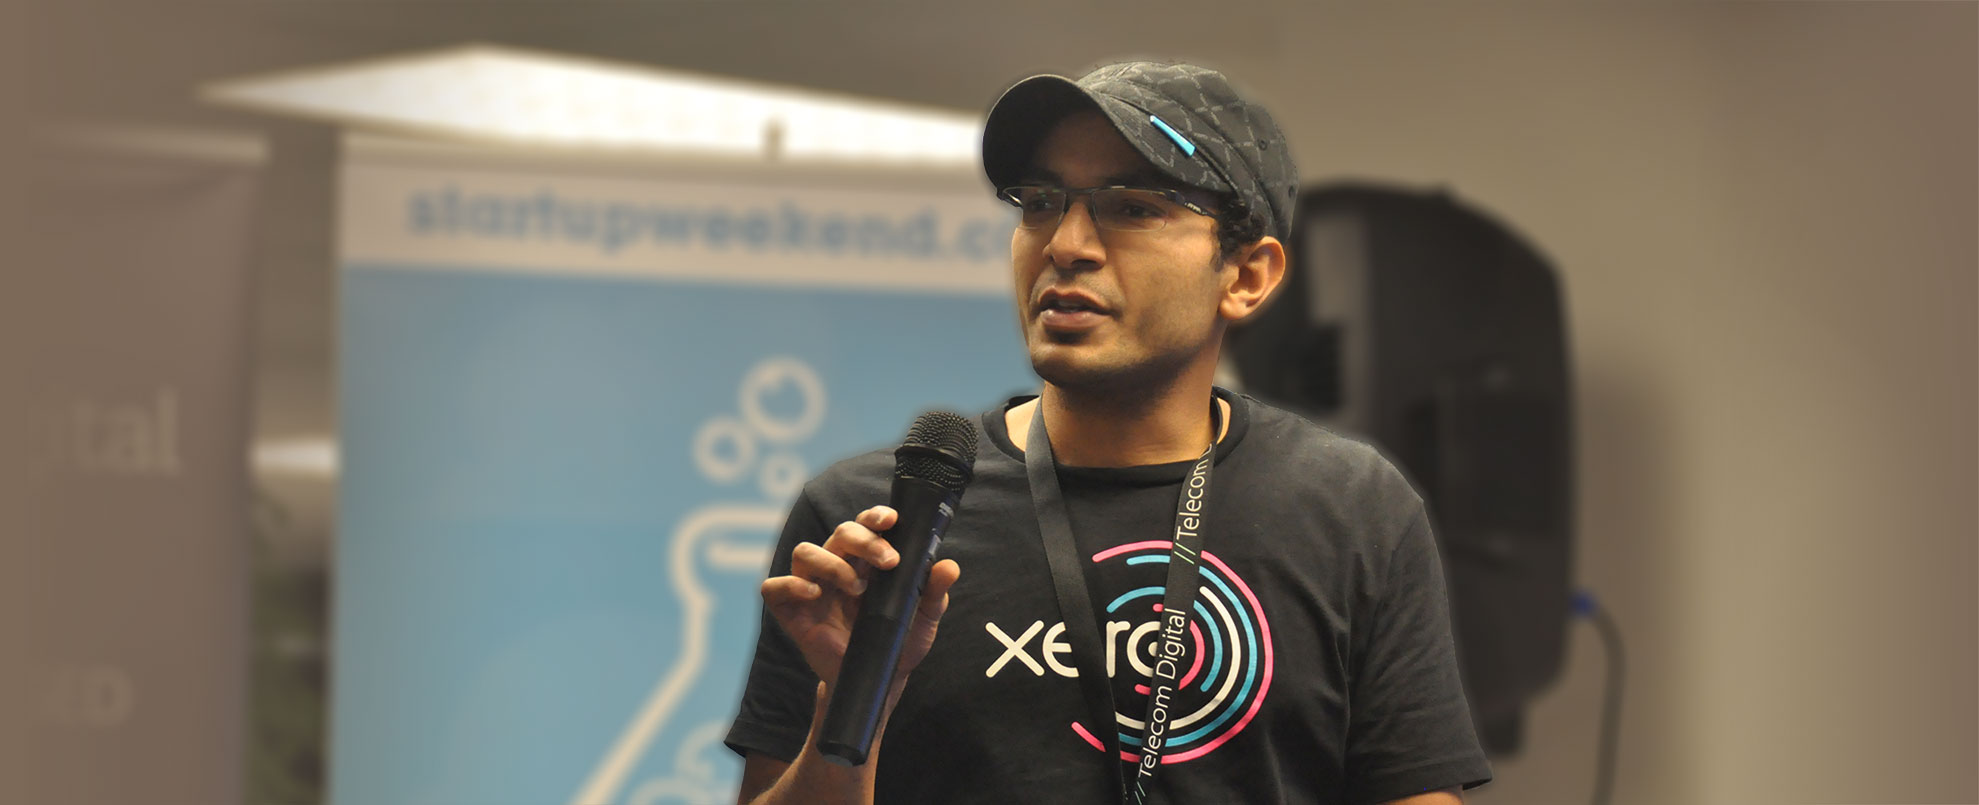
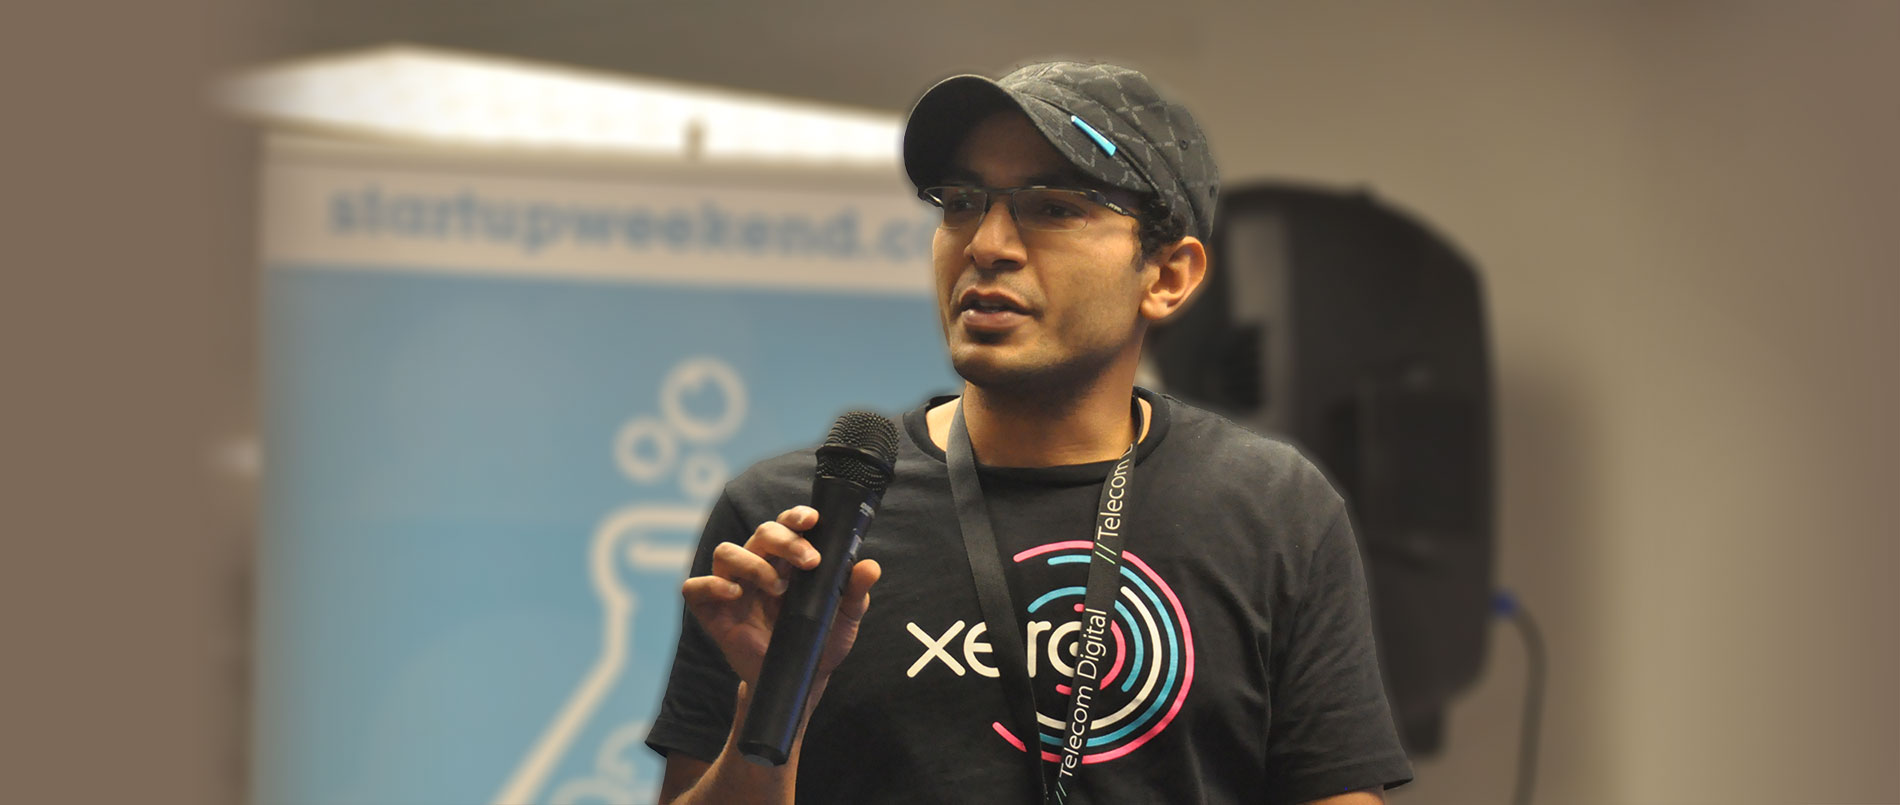
Update speaking cover photo and css styling

Changed region(s): [[0.0932, 0.0311, 0.8384, 1.0], [0.2795, 0.2795, 0.3105, 0.3106]]

diff --git a/speaking.md b/speaking.md
@@ -5,7 +5,7 @@ title: "Speaking"
 comments: false
 image:
   feature: covers/speaking-asw2014.JPG
-  bg_style: 'background-size: auto 120%; background-position: 70% -12px; background-color: #7b6957; background-repeat: no-repeat;'
+  bg_style: 'background-size: auto 120%; background-position: 93% -12px; background-color: #7b6957; background-repeat: no-repeat;'
   mask_style: 'opacity: 0.4;'
   credit: Auckland Startup Weekend 2014<br/><a class="u-secondary" href="http://www.janinebarr.com" target="_blank">JanineBarr.com</a>
 ---
